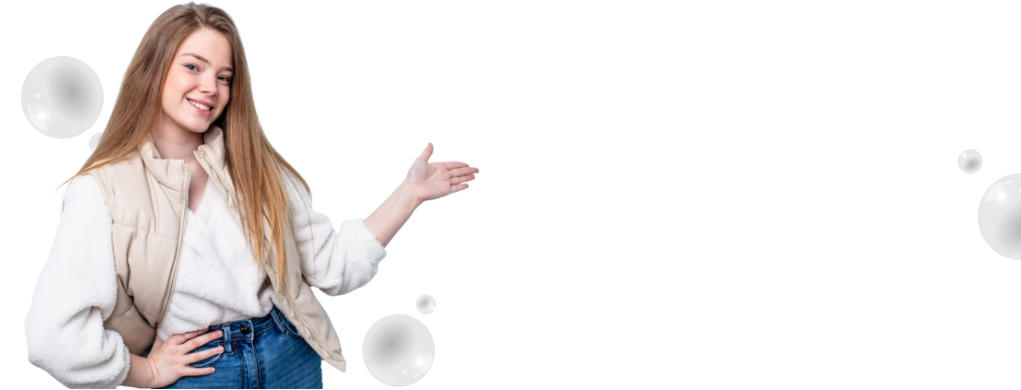
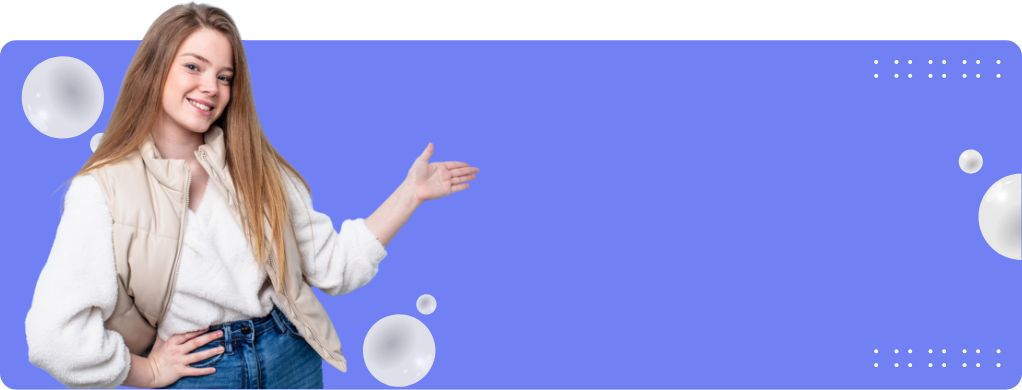
correciones
semava0226

diff --git a/src/views/Tema1.vue b/src/views/Tema1.vue
@@ -405,7 +405,7 @@
             p.pax ancho 100 cm y altura 15,5 cm.
     .row.justify-content-center.mt-4
       .col-lg-10.mt-4
-        .tarjeta.color-secundario.p-4.p-md-5.mb-5.mt-4.bg22
+        .tarjeta.p-4.p-md-5.mb-5.mt-4.bg22
           .row.justify-content-around.align-items-center
             .col-8.col-sm-6.col-md-4.mb-4.mb-md-0
             .col-md.col-lg-7.p-5
@@ -739,7 +739,7 @@
               <br>
               p <strong>Material de apoyo</strong>
               p.mt-4 En caso de ser necesario ampliar la información, ingrese a Sistemas de Biblioteca Sena: Flamarique, S. (2017). Gestión de operaciones de almacenaje. Marge Books
-              a.boton.color-acento-botones.texto-blanco.mt-4(:href="(' https://elibro-net.bdigital.sena.edu.co/es/ereader/senavirtual/43773?page=55')" target="_blank" type="application/pdf")
+              a.boton.color-acento-botones.texto-blanco.mt-4(:href="('')" target="_blank" type="application/pdf")
                 span Ingresar
                 i.fas.fa-link
               <br>      
@@ -990,7 +990,7 @@
 
               p.mb-4 En caso de ser necesario ampliar la información, ingrese a Sistemas de Biblioteca Sena:
               p Flamarique, S. (2017). Gestión de operaciones de almacenaje. Marge Books. 
-              a.boton.color-acento-botones.texto-blanco.mt-4(:href="('https://elibro-net.bdigital.sena.edu.co/es/ereader/senavirtual/43773?page=41')" target="_blank" type="application/pdf")
+              a.boton.color-acento-botones.texto-blanco.mt-4(:href="('')" target="_blank" type="application/pdf")
                 span Ingresar
                 i.fas.fa-link
               <br><br><br><br>
@@ -1279,7 +1279,7 @@
                   p.mb-0 Peña, C. y Hernández, E. (2018). Cadena de suministro 4.0: beneficios y retos de las tecnologías disruptivas. Marge Books.  
                 .col-lg-2  
                   <br><br>
-                  a.boton.color-acento-botones.texto-blanco.mt-2(:href="('https://elibro-net.bdigital.sena.edu.co/es/ereader/senavirtual/45161?page=1')" target="_blank" type="application/pdf")
+                  a.boton.color-acento-botones.texto-blanco.mt-2(:href="('')" target="_blank" type="application/pdf")
                     span ingresar
                     i.fas.fa-link   
               .row

diff --git a/src/views/Tema4.vue b/src/views/Tema4.vue
@@ -208,7 +208,7 @@
         img(src='@/assets/curso/tema4/img14.svg', alt='Texto que describa la imagen')
     .row.justify-content-center.mt-4
       .col-lg-10.mt-4
-        .tarjeta.color-secundario.p-4.p-md-5.mb-5.mt-4.bg22
+        .tarjeta.p-4.p-md-5.mb-5.mt-4.bg22
           .row.justify-content-around.align-items-center
             .col-8.col-sm-6.col-md-4.mb-4.mb-md-0
             .col-md.col-lg-7.p-5
